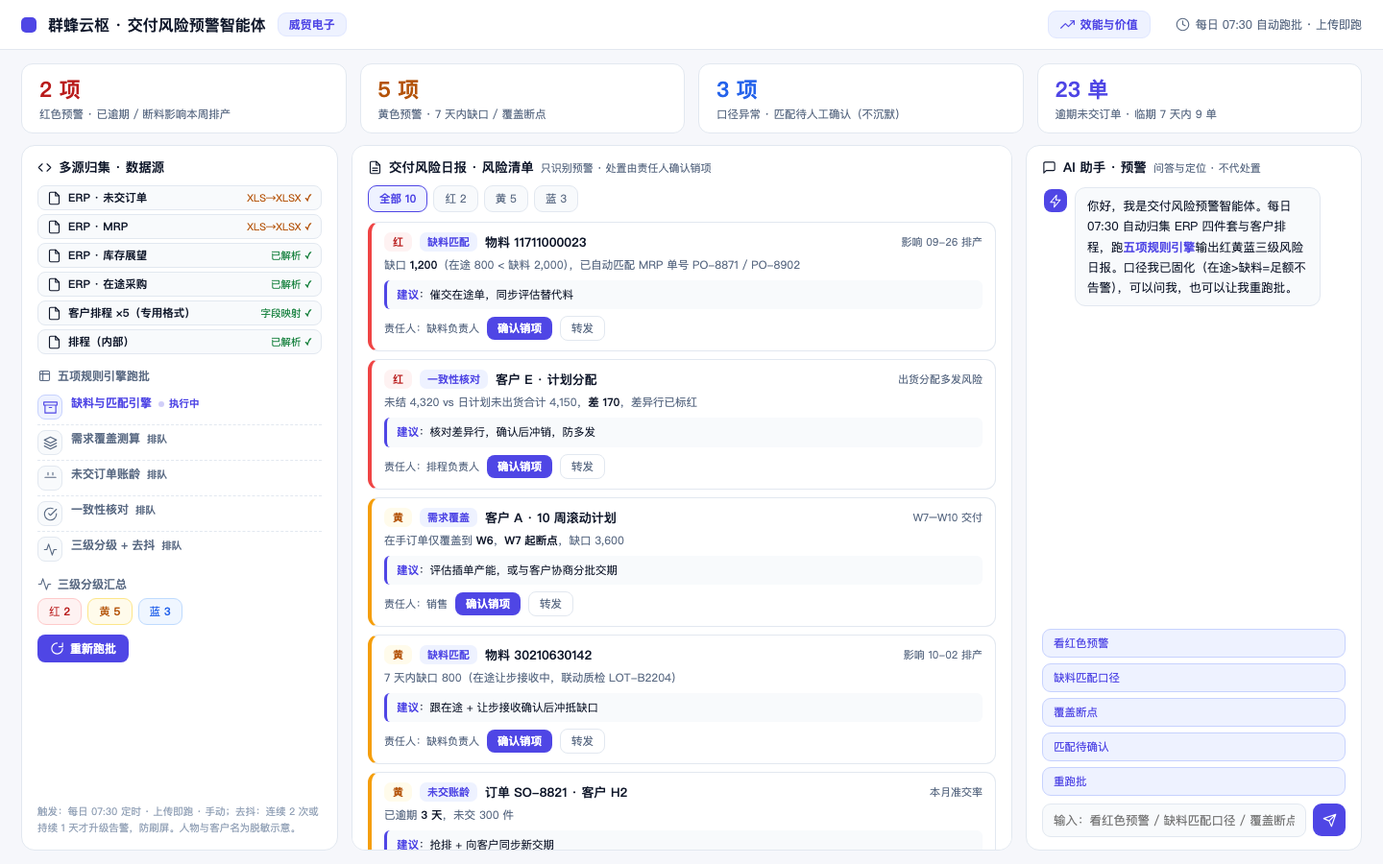
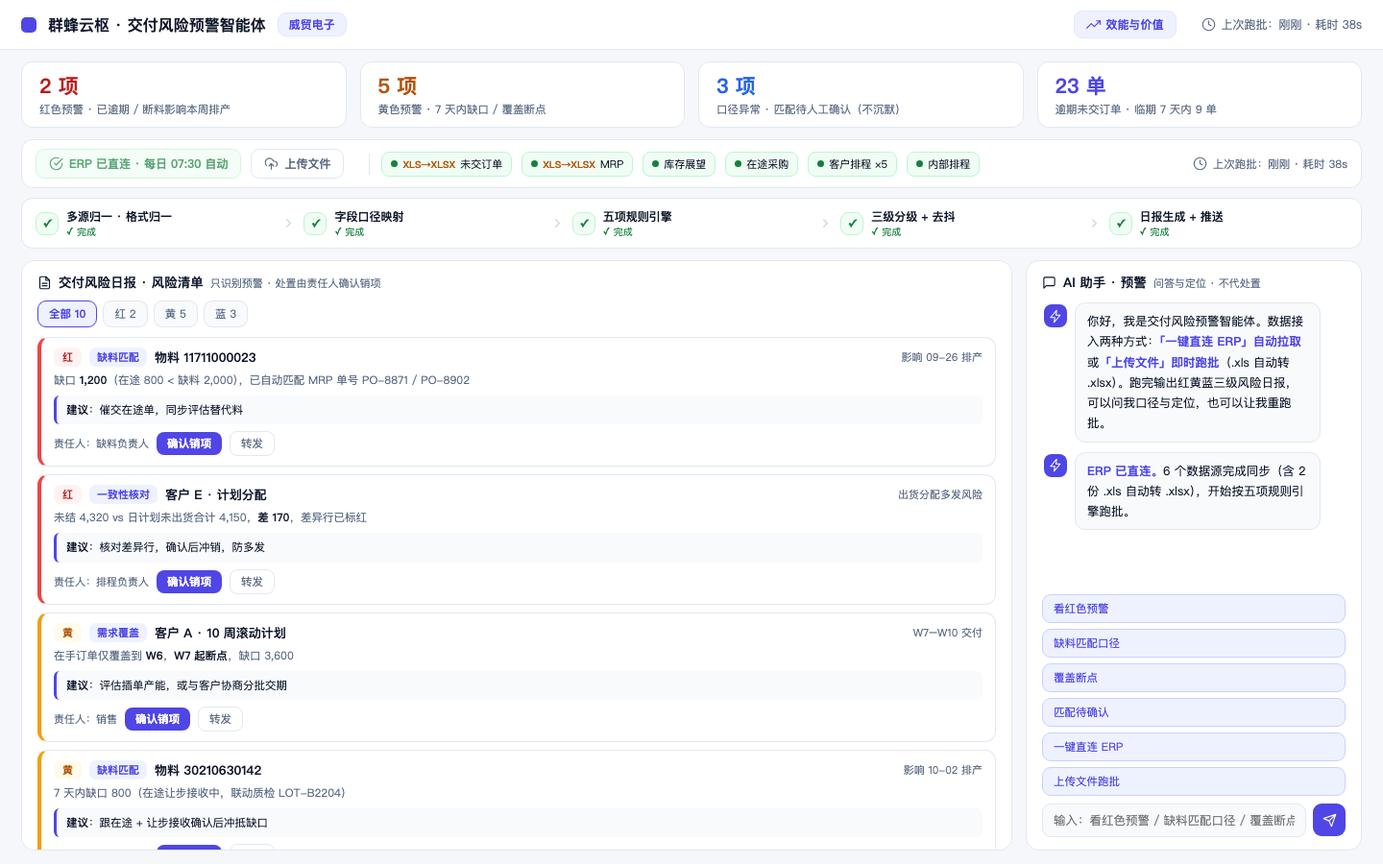
feat(demos): scenario-3 动线重构 — 接入带(一键直连ERP+文件上传+源状态)/横式流水线/清单升主视觉

diff --git a/demos/scenario-3-delivery.html b/demos/scenario-3-delivery.html
@@ -21,50 +21,48 @@ body{background:var(--bg);color:var(--tx);height:100vh;display:flex;flex-directi
 .vrow .base{color:var(--mut);font-size:11px}
 .vfoot{font-size:10px;color:#94A3B8;margin-top:7px;line-height:1.6}
 .rinfo{margin-left:14px;font-size:12px;color:var(--mut);display:flex;align-items:center;gap:6px;flex:none}
-.kpis{display:flex;gap:14px;padding:14px 22px 0}
-.kpi{flex:1;background:var(--pan);border:1px solid var(--bd);border-radius:12px;padding:11px 18px;cursor:pointer}
-.kpi b{font-size:22px;color:var(--ac)}
+.kpis{display:flex;gap:14px;padding:12px 22px 0}
+.kpi{flex:1;background:var(--pan);border:1px solid var(--bd);border-radius:12px;padding:10px 18px;cursor:pointer}
+.kpi b{font-size:21px;color:var(--ac)}
 .kpi b.rd{color:var(--bad)}.kpi b.ye{color:var(--warn)}.kpi b.bl{color:var(--blue)}
-.kpi span{display:block;font-size:11.5px;color:var(--mut);margin-top:3px}
+.kpi span{display:block;font-size:11.5px;color:var(--mut);margin-top:2px}
+/* 接入带 */
+.accessbar{display:flex;align-items:center;gap:10px;background:var(--pan);border:1px solid var(--bd);border-radius:12px;margin:12px 22px 0;padding:9px 14px;flex-wrap:wrap}
+.abtn{display:inline-flex;align-items:center;gap:6px;font-size:12px;border-radius:9px;padding:6px 13px;cursor:pointer;font-weight:700}
+.abtn.pri{background:var(--ac);color:#fff}
+.abtn.pri:hover{background:#4338CA}
+.abtn.ghost{border:1px solid var(--bd);color:var(--mut);background:var(--pan);font-weight:600}
+.abtn.ghost:hover{color:var(--ac);border-color:#C7D2FE}
+.abtn.on{background:var(--okbg);color:var(--ok);border:1px solid #BBF7D0}
+.adiv{width:1px;height:22px;background:var(--bd);margin:0 2px}
+.srcchip{display:inline-flex;align-items:center;gap:5px;font-size:11px;border:1px solid var(--bd);border-radius:8px;padding:4px 9px;color:var(--mut);background:var(--pan2)}
+.srcchip i{width:7px;height:7px;border-radius:4px;background:#CBD5E1;flex:none}
+.srcchip.ok{color:var(--tx);border-color:#BBF7D0;background:var(--okbg)}
+.srcchip.ok i{background:var(--ok)}
+.srcchip .cv{color:var(--warn);font-size:10px;font-weight:700}
+.abarlast{margin-left:auto;font-size:11.5px;color:var(--mut);display:flex;align-items:center;gap:6px}
+/* 流水线 */
+.pipe{display:flex;align-items:stretch;gap:0;background:var(--pan);border:1px solid var(--bd);border-radius:12px;margin:10px 22px 0;padding:10px 14px}
+.pstep{flex:1;display:flex;align-items:center;gap:8px;min-width:0}
+.pnum{width:24px;height:24px;border-radius:8px;background:var(--pan2);border:1px solid var(--bd);color:var(--mut);display:flex;align-items:center;justify-content:center;font-size:11.5px;font-weight:700;flex:none}
+.pstep.run .pnum{background:#EEF2FF;border-color:#C7D2FE;color:var(--ac)}
+.pstep.done .pnum{background:var(--okbg);border-color:#BBF7D0;color:var(--ok)}
+.pbody{min-width:0}
+.pname{font-size:12px;font-weight:600;color:var(--mut);white-space:nowrap}
+.pstep.run .pname{color:var(--ac)}
+.pstep.done .pname{color:var(--tx)}
+.pstat{font-size:10px;color:#94A3B8;white-space:nowrap}
+.pstep.run .pstat{color:var(--ac)}
+.pstep.done .pstat{color:var(--ok)}
+.parr{display:flex;align-items:center;padding:0 8px;color:#CBD5E1;flex:none}
+.dot{display:inline-block;width:6px;height:6px;border-radius:3px;background:var(--ac);margin-right:4px;animation:pu 1s infinite}
+@keyframes pu{50%{opacity:.25}}
+/* 主区 */
 .wrap{display:flex;flex:1;gap:14px;padding:12px 22px 14px;min-height:0;overflow:hidden}
 .panel{background:var(--pan);border:1px solid var(--bd);border-radius:14px;padding:13px 16px;overflow:auto;display:flex;flex-direction:column;min-height:0}
 .panel h3{font-size:13.5px;font-weight:700;display:flex;align-items:center;gap:7px;margin-bottom:9px}
 .panel h3 em{font-style:normal;font-size:11px;color:var(--mut);font-weight:400}
-.left{width:330px;flex:none}.mid{flex:1.3;min-width:0}.right{width:350px;flex:none}
-.sec{font-size:12px;color:var(--mut);font-weight:600;display:flex;align-items:center;gap:6px;margin:10px 0 6px}
-.src{display:flex;align-items:center;gap:7px;font-size:11.5px;background:var(--pan2);border:1px solid var(--bd);border-radius:8px;padding:4px 9px;margin-bottom:4px}
-.src b{font-weight:600;white-space:nowrap;overflow:hidden;text-overflow:ellipsis}
-.src .st{margin-left:auto;color:var(--ok);flex:none;font-size:10.5px}
-.src .st.conv{color:var(--warn)}
-.stage{display:flex;align-items:flex-start;gap:9px;padding:5px 0;border-bottom:1px dashed var(--bd)}
-.stage:last-child{border-bottom:none}
-.sic{width:26px;height:26px;border-radius:8px;background:var(--pan2);border:1px solid var(--bd);display:flex;align-items:center;justify-content:center;color:var(--mut);flex:none}
-.stage.run .sic{background:#EEF2FF;border-color:#C7D2FE;color:var(--ac)}
-.stage.done .sic{background:var(--okbg);border-color:#BBF7D0;color:var(--ok)}
-.sbody{flex:1;min-width:0}
-.sname{font-size:12px;font-weight:600;color:var(--mut)}
-.stage.run .sname{color:var(--ac)}
-.stage.done .sname{color:var(--tx)}
-.sstate{font-size:10.5px;margin-left:7px;font-weight:700}
-.stage.run .sstate{color:var(--ac)}
-.stage.done .sstate{color:var(--ok)}
-.ssum{font-size:10.5px;color:var(--mut);line-height:1.55;margin-top:2px;display:none}
-.stage.done .ssum{display:block}
-.dot{display:inline-block;width:6px;height:6px;border-radius:3px;background:var(--ac);margin-right:5px;animation:pu 1s infinite}
-@keyframes pu{50%{opacity:.25}}
-.rchips{display:flex;gap:6px;flex-wrap:wrap}
-.rchip{font-size:11.5px;border:1px solid var(--bd);border-radius:9px;padding:5px 11px;color:var(--mut);cursor:pointer;background:var(--pan2)}
-.rchip b{font-weight:700}
-.rchip.hi{border-color:#FECACA;background:var(--badbg);color:var(--bad)}
-.rchip.md{border-color:#FDE68A;background:var(--warnbg);color:var(--warn)}
-.rchip.lo{border-color:#BFDBFE;background:var(--infobg);color:var(--blue)}
-.btnrow{display:flex;gap:8px;flex-wrap:wrap}
-.btn{display:inline-flex;align-items:center;gap:6px;font-size:12px;border-radius:8px;padding:6px 13px;cursor:pointer}
-.btn.pri{background:var(--ac);color:#fff;font-weight:700}
-.btn.pri:hover{background:#4338CA}
-.btn.ghost{border:1px solid var(--bd);color:var(--mut);background:var(--pan)}
-.btn.ghost:hover{color:var(--ac);border-color:#C7D2FE}
-.btn.sm{font-size:11.5px;padding:4px 11px}
+.mid{flex:1.55;min-width:0}.right{width:350px;flex:none}
 .fbar{display:flex;gap:6px;flex-wrap:wrap;margin-bottom:10px}
 .fchip{font-size:11.5px;border:1px solid var(--bd);border-radius:9px;padding:5px 11px;color:var(--mut);cursor:pointer;background:var(--pan2)}
 .fchip.on{border-color:var(--ac);color:var(--ac);background:#EEF2FF;font-weight:700}
@@ -84,16 +82,20 @@ body{background:var(--bg);color:var(--tx);height:100vh;display:flex;flex-directi
 .rdesc{font-size:11.5px;color:var(--mut);line-height:1.65;margin-top:5px}
 .rdesc b{color:var(--tx)}
 .ract{margin-top:6px;font-size:11.5px;color:var(--tx);background:var(--pan2);border-left:3px solid var(--ac);border-radius:6px;padding:6px 10px;line-height:1.6}
-.ract b{color:var(--ac)}
 .rft{display:flex;align-items:center;gap:8px;margin-top:7px}
 .rft .own{font-size:11px;color:var(--mut)}
 .okmark{font-size:11.5px;color:var(--ok);font-weight:600}
+.btn{display:inline-flex;align-items:center;gap:6px;font-size:11.5px;border-radius:8px;padding:4px 11px;cursor:pointer}
+.btn.pri{background:var(--ac);color:#fff;font-weight:700}
+.btn.ghost{border:1px solid var(--bd);color:var(--mut);background:var(--pan)}
 .dstrip{margin-top:10px;display:flex;align-items:center;gap:8px;font-size:11.5px;color:var(--tx);background:var(--pan2);border:1px solid var(--bd);border-radius:10px;padding:8px 12px}
 .dstrip b{color:var(--ac)}
 .oneline{margin-top:10px;display:flex;align-items:flex-start;gap:8px;font-size:11.5px;line-height:1.7;color:var(--tx);background:#EEF2FF;border:1px solid #C7D2FE;border-radius:10px;padding:8px 12px}
 .oneline .ic{color:var(--ac);margin-top:2px}
 .oneline b{color:var(--ac)}
 .dfoot{font-size:10.5px;color:#94A3B8;line-height:1.6;margin-top:auto;padding-top:8px}
+.upfiles{display:flex;gap:6px;flex-wrap:wrap;margin-left:4px}
+.upfile{font-size:10.5px;color:var(--warn);background:var(--warnbg);border:1px solid #FDE68A;border-radius:7px;padding:2px 8px;font-weight:600}
 /* AI */
 .aiwrap{flex:1;display:flex;flex-direction:column;min-height:0}
 .msgs{flex:1;overflow:auto;padding:2px 2px 8px;min-height:0}
@@ -116,9 +118,7 @@ body{background:var(--bg);color:var(--tx);height:100vh;display:flex;flex-directi
 .inrow input{flex:1;border:1px solid var(--bd);border-radius:9px;padding:8px 11px;font-size:12.5px;outline:none;color:var(--tx);background:var(--pan2)}
 .inrow input:focus{border-color:var(--ac);background:#fff}
 .inrow .send{width:34px;height:34px;border-radius:9px;background:var(--ac);color:#fff;display:flex;align-items:center;justify-content:center;cursor:pointer;flex:none}
-.inrow .send:hover{background:#4338CA}
 .toast{position:fixed;right:24px;bottom:24px;background:var(--tx);color:#fff;font-size:13px;font-weight:600;border-radius:10px;padding:10px 18px;display:none;z-index:99;box-shadow:0 8px 24px rgba(15,23,42,.25)}
-svg text{font-family:inherit}
 </style></head><body>
 <div class="top"><div class="logo"></div><b>群蜂云枢 · 交付风险预警智能体</b><span class="toptag">威贸电子</span>
 <div class="valwrap"><span class="valbtn" onclick="toggleVal(event)"><svg class="ic" viewBox="0 0 24 24"><path d="M23 6l-9.5 9.5-5-5L1 18"/><path d="M17 6h6v6"/></svg>效能与价值</span>
@@ -129,7 +129,7 @@ svg text{font-family:inherit}
 <div class="vrow"><span>人工释放</span><span class="base"><b>约 60–80 人时/月</b>（推断）</span></div>
 <div class="vrow"><span>预警准确率</span><span class="base">无基线 → <b>≥90%</b>，误报 &lt;10%</span></div>
 <div class="vfoot">MVP 只做识别与预警，不做自动处置；未交订单逾期量上线 3 个月内目标下降 20%。</div></div></div>
-<div class="rinfo"><svg class="ic" viewBox="0 0 24 24"><circle cx="12" cy="12" r="10"/><path d="M12 6v6l4 2"/></svg>每日 07:30 自动跑批 · 上传即跑</div></div>
+<div class="rinfo"><svg class="ic" viewBox="0 0 24 24"><circle cx="12" cy="12" r="10"/><path d="M12 6v6l4 2"/></svg><span id="runInfo">上次跑批：今日 07:30 · 耗时 42s</span></div></div>
 
 <div class="kpis">
 <div class="kpi" onclick="setFilter('red')"><b class="rd">2 项</b><span>红色预警 · 已逾期 / 断料影响本周排产</span></div>
@@ -137,18 +137,19 @@ svg text{font-family:inherit}
 <div class="kpi" onclick="setFilter('blue')"><b class="bl">3 项</b><span>口径异常 · 匹配待人工确认（不沉默）</span></div>
 <div class="kpi"><b>23 单</b><span>逾期未交订单 · 临期 7 天内 9 单</span></div></div>
 
-<div class="wrap">
-<div class="panel left">
-<h3><svg class="ic" viewBox="0 0 24 24"><path d="M16 18l6-6-6-6M8 6l-6 6 6 6"/></svg>多源归集 · 数据源</h3>
-<div id="srcs"></div>
-<div class="sec"><svg class="ic" viewBox="0 0 24 24"><rect x="4" y="4" width="16" height="16" rx="2"/><path d="M9 4v16M4 9h16"/></svg>五项规则引擎跑批</div>
-<div id="stages"></div>
-<div class="sec"><svg class="ic" viewBox="0 0 24 24"><path d="M22 12h-4l-3 9L9 3l-3 9H2"/></svg>三级分级汇总</div>
-<div class="rchips"><span class="rchip hi" onclick="setFilter('red')">红 <b>2</b></span><span class="rchip md" onclick="setFilter('yellow')">黄 <b>5</b></span><span class="rchip lo" onclick="setFilter('blue')">蓝 <b>3</b></span></div>
-<div style="margin-top:10px" class="btnrow"><span class="btn pri" id="runBtn" onclick="runPipeline()"><svg class="ic" viewBox="0 0 24 24"><polygon points="6 3 20 12 6 21 6 3"/></svg>立即跑批</span></div>
-<div class="dfoot">触发：每日 07:30 定时 · 上传即跑 · 手动；去抖：连续 2 次或持续 1 天才升级告警，防刷屏。人物与客户名为脱敏示意。</div>
+<div class="accessbar">
+<span class="abtn pri" id="erpBtn" onclick="connectERP()"><svg class="ic" viewBox="0 0 24 24"><path d="M13 2L3 14h7l-1 8 10-12h-7l1-8z"/></svg>一键直连 ERP</span>
+<span class="abtn ghost" onclick="document.getElementById('upIn').click()"><svg class="ic" viewBox="0 0 24 24"><path d="M4 14.9A7 7 0 1 1 15.7 8h1.8a4.5 4.5 0 0 1 2.5 8.2M12 12v9"/><path d="M16 16l-4-4-4 4"/></svg>上传文件</span>
+<input type="file" id="upIn" multiple accept=".xls,.xlsx,.csv,.pdf,.zip" style="display:none" onchange="onUpload(this)">
+<span class="upfiles" id="upfiles"></span>
+<span class="adiv"></span>
+<span class="srcchip" data-s="0"><i></i>未交订单</span><span class="srcchip" data-s="1"><i></i>MRP</span><span class="srcchip" data-s="2"><i></i>库存展望</span><span class="srcchip" data-s="3"><i></i>在途采购</span><span class="srcchip" data-s="4"><i></i>客户排程 ×5</span><span class="srcchip" data-s="5"><i></i>内部排程</span>
+<span class="abarlast"><svg class="ic" viewBox="0 0 24 24"><circle cx="12" cy="12" r="10"/><path d="M12 6v6l4 2"/></svg><span id="lastRun">未直连 · 支持每日 07:30 自动跑批</span></span>
 </div>
 
+<div class="pipe" id="pipe"></div>
+
+<div class="wrap">
 <div class="panel mid">
 <h3><svg class="ic" viewBox="0 0 24 24"><path d="M14 2H6a2 2 0 0 0-2 2v16a2 2 0 0 0 2 2h12a2 2 0 0 0 2-2V8z"/><path d="M14 2v6h6M16 13H8M16 17H8"/></svg>交付风险日报 · 风险清单<em>只识别预警 · 处置由责任人确认销项</em></h3>
 <div class="fbar" id="fbar"></div>
@@ -167,13 +168,12 @@ svg text{font-family:inherit}
 <div class="toast" id="toast"></div>
 
 <script>
-const SRCS=[["ERP · 未交订单","XLS→XLSX ✓"],["ERP · MRP","XLS→XLSX ✓"],["ERP · 库存展望","已解析 ✓"],["ERP · 在途采购","已解析 ✓"],["客户排程 ×5（专用格式）","字段映射 ✓"],["排程（内部）","已解析 ✓"]];
-const STAGES=[
- ["缺料与匹配引擎","M21 8V21H3V8M1 3h22v5H1zM10 12h4","在途>缺料视为足额不告警 87 行；在途<缺料自动匹配 MRP 单号 14 项，匹配不上单列待确认 1 项（不沉默）"],
- ["需求覆盖测算","M12 2L2 7l10 5 10-5-10-5zM2 17l10 5 10-5M2 12l10 5 10-5","客户滚动计划 vs 在手订单逐周比对：覆盖断点 2 处（W7 / W9）"],
- ["未交订单账龄","M8 2v4M16 2v4M3 10h18","按应交期分月统计未交量：已逾期 23 单，临期 7 天内 9 单自动升级"],
- ["一致性核对","M22 11.1V12a10 10 0 1 1-5.9-9.1M22 4L12 14l-3-3","客户计划未结 vs 内部排程未出货合计自动对平，差异行标红 1 行（差 170）"],
- ["三级分级 + 去抖","M22 12h-4l-3 9L9 3l-3 9H2","红 2 / 黄 5 / 蓝 3；连续 2 次或持续 1 天才升级，正常静默"]];
+const PIPES=[
+ ["多源归一 · 格式归一","ERP 四件套 + 客户排程 ×5 + 内部排程 · .xls 无损转 .xlsx"],
+ ["字段口径映射","ERP 编码 / 客户料号 / 应交期 / 在途量"],
+ ["五项规则引擎","缺料匹配 · 需求覆盖 · 未交账龄 · 一致性核对 · 口径校验"],
+ ["三级分级 + 去抖","红 2 / 黄 5 / 蓝 3 · 连续 2 次或持续 1 天才升级"],
+ ["日报生成 + 推送","缺料负责人 / 排程负责人 / 销售 · 正常静默"]];
 const RISKS=[
  {lv:"red",cat:"缺料匹配",obj:"物料 11711000023",desc:"缺口 <b>1,200</b>（在途 800 < 缺料 2,000），已自动匹配 MRP 单号 PO-8871 / PO-8902",imp:"影响 09-26 排产",act:"<b>建议</b>：催交在途单，同步评估替代料",own:"缺料负责人"},
  {lv:"red",cat:"一致性核对",obj:"客户 E · 计划分配",desc:"未结 4,320 vs 日计划未出货合计 4,150，<b>差 170</b>，差异行已标红",imp:"出货分配多发风险",act:"<b>建议</b>：核对差异行，确认后冲销，防多发",own:"排程负责人"},
@@ -186,21 +186,37 @@ const RISKS=[
  {lv:"blue",cat:"匹配待确认",obj:"物料 40110810237",desc:"MRP 有在途单，但与缺料行<b>映射失败</b>——单列待确认，不沉默",imp:"可能掩盖真实缺口",act:"<b>建议</b>：人工确认料号映射后回写规则",own:"缺料负责人"},
  {lv:"blue",cat:"口径校验",obj:"缺料表负数行",desc:"到货 &gt; 缺料 = 已足额（口径固化），自动识别 <b>87 行</b>不告警",imp:"—",act:"无需处理",own:"—"}];
 const FILTERS=[["all","全部 10"],["red","红 2"],["yellow","黄 5"],["blue","蓝 3"]];
-let filter="all";
+let filter="all",ran=false;
 
-function renderSrcs(){document.getElementById("srcs").innerHTML=SRCS.map(s=>`<div class="src"><svg class="ic" viewBox="0 0 24 24"><path d="M14 2H6a2 2 0 0 0-2 2v16a2 2 0 0 0 2 2h12a2 2 0 0 0 2-2V8z"/><path d="M14 2v6h6"/></svg><b>${s[0]}</b><span class="st ${s[1].includes("XLS")?"conv":""}">${s[1]}</span></div>`).join("")}
-function renderStages(st){const box=document.getElementById("stages");box.innerHTML="";
- STAGES.forEach((s,i)=>{const cls=st>i?"done":st===i?"run":"";
-  box.innerHTML+=`<div class="stage ${cls}"><div class="sic"><svg class="ic" viewBox="0 0 24 24">${st>i?'<path d="M22 11.1V12a10 10 0 1 1-5.9-9.1M22 4L12 14l-3-3"/>':`<path d="${s[1]}"/>`}</svg></div>
-  <div class="sbody"><div class="sname">${s[0]}<span class="sstate">${st>i?"✓":st===i?'<span class="dot"></span>执行中':"排队"}</span></div><div class="ssum">${s[2]}</div></div></div>`})}
-function runPipeline(){if(ran){document.querySelectorAll(".rrow.done").forEach(r=>r.classList.remove("done"));
- RISKS.forEach(r=>r.done=false);renderStages(0);ran=false;setTimeout(runPipeline,80);return}
- ran=true;document.getElementById("runBtn").innerHTML='<svg class="ic" viewBox="0 0 24 24"><path d="M21 12a9 9 0 1 1-9-9"/><path d="M21 3v6h-6"/></svg>重新跑批';
- let st=0;renderStages(0);
- const step=()=>{if(st>STAGES.length){renderStages(STAGES.length);renderList();toast("跑批完成 · 日报已生成并按级推送");return}
-  renderStages(st);st++;setTimeout(step,st===STAGES.length+1?500:900)};step()}
-let ran=false;
-
+function renderPipe(st){document.getElementById("pipe").innerHTML=PIPES.map((p,i)=>{
+  const cls=st>i?"done":st===i?"run":"";
+  const stat=st>i?"✓ 完成":st===i?'<span class="dot"></span>执行中':"排队";
+  return `<div class="pstep ${cls}" title="${p[1]}"><div class="pnum">${st>i?"✓":i+1}</div><div class="pbody"><div class="pname">${p[0]}</div><div class="pstat">${stat}</div></div></div>${i<PIPES.length-1?'<div class="parr"><svg class="ic" viewBox="0 0 24 24"><path d="M9 18l6-6-6-6"/></svg></div>':""}`}).join("")}
+function runPipeline(){if(ran){RISKS.forEach(r=>r.done=false);renderPipe(0);ran=false;setTimeout(runPipeline,80);return}
+ ran=true;
+ let st=0;renderPipe(0);
+ const step=()=>{if(st>PIPES.length){renderPipe(PIPES.length);renderList();
+  document.getElementById("lastRun").textContent="上次跑批：刚刚 · 耗时 38s";
+  document.getElementById("runInfo").textContent="上次跑批：刚刚 · 耗时 38s";
+  toast("跑批完成 · 日报已生成并按级推送");return}
+  renderPipe(st);st++;setTimeout(step,st===PIPES.length+1?400:850)};step()}
+function connectERP(){const btn=document.getElementById("erpBtn");
+ if(btn.classList.contains("on")){toast("ERP 直连正常 · 上次同步 今日 07:30（模拟）");return}
+ btn.innerHTML='<svg class="ic" viewBox="0 0 24 24"><path d="M21 12a9 9 0 1 1-9-9"/><path d="M21 3v6h-6"/></svg>连接中…';
+ btn.style.opacity=".7";
+ setTimeout(()=>{btn.className="abtn on";btn.innerHTML='<svg class="ic" viewBox="0 0 24 24"><path d="M22 11.1V12a10 10 0 1 1-5.9-9.1M22 4L12 14l-3-3"/></svg>ERP 已直连 · 每日 07:30 自动';
+  document.querySelectorAll(".srcchip").forEach(c=>{c.classList.add("ok");
+   if(c.dataset.s==="0"||c.dataset.s==="1")c.innerHTML=c.innerHTML.replace("</i>","</i><span class='cv'>XLS→XLSX</span>")||c.innerHTML});
+  document.getElementById("lastRun").textContent="已直连 · 6 个数据源已同步";
+  toast("ERP 直连成功 · 6 个数据源已同步，开始跑批");
+  aiSay("<b>ERP 已直连。</b>6 个数据源完成同步（含 2 份 .xls 自动转 .xlsx），开始按五项规则引擎跑批。");runPipeline()},1100)}
+function onUpload(inp){const fs=[...inp.files];const box=document.getElementById("upfiles");
+ fs.forEach(f=>{const d=document.createElement("span");d.className="upfile";
+  const isXls=/\.xls$/i.test(f.name);
+  d.textContent=f.name+(isXls?" .xls→.xlsx":" ✓");box.appendChild(d)});
+ if(fs.length){toast("已接收 "+fs.length+" 个文件 · 开始即时跑批");
+  aiSay("已接收上传文件 "+fs.length+" 个"+(fs.some(f=>/\.xls$/i.test(f.name))?"（含 .xls 已自动转 .xlsx）":"")+"，按五项规则引擎即时跑批。");runPipeline()}
+ inp.value=""}
 function setFilter(f){filter=f;renderList()}
 function renderList(){document.getElementById("fbar").innerHTML=FILTERS.map(f=>`<span class="fchip ${filter===f[0]?"on":""}" onclick="setFilter('${f[0]}')">${f[1]}</span>`).join("");
  const list=RISKS.filter(r=>filter==="all"||r.lv===filter);
@@ -208,10 +224,10 @@ function renderList(){document.getElementById("fbar").innerHTML=FILTERS.map(f=>`
  list.forEach(r=>{const d=document.createElement("div");d.className="rrow "+r.lv+(r.done?" done":"");
   d.innerHTML=`<div class="rh"><span class="lvb ${r.lv}">${r.lv==="red"?"红":r.lv==="yellow"?"黄":"蓝"}</span><span class="cat">${r.cat}</span><span class="obj">${r.obj}</span><span class="imp">${r.imp}</span></div>
   <div class="rdesc">${r.desc}</div><div class="ract">${r.act}</div>
-  <div class="rft"><span class="own">责任人：${r.own}</span>${r.own==="—"?"":r.done?'<span class="okmark">✓ 已销项 · 次日跑批自动复核</span>':`<span class="btn pri sm" onclick="closeRisk(this,'${r.obj}')">确认销项</span><span class="btn ghost sm" onclick="toast('已转发责任人处理（模拟推送）')">转发</span>`}</div>`;
+  <div class="rft"><span class="own">责任人：${r.own}</span>${r.own==="—"?"":r.done?'<span class="okmark">✓ 已销项 · 次日跑批自动复核</span>':`<span class="btn pri" onclick="closeRisk(this,'${r.obj}')">确认销项</span><span class="btn ghost" onclick="toast('已转发责任人处理（模拟推送）')">转发</span>`}</div>`;
   box.appendChild(d)})}
-function closeRisk(btn,obj){const r=RISKS.find(x=>x.obj===obj);if(r){r.done=true}
- const row=btn.closest(".rrow");row.classList.add("done");
+function closeRisk(btn,obj){const r=RISKS.find(x=>x.obj===obj);if(r)r.done=true;
+ btn.closest(".rrow").classList.add("done");
  btn.outerHTML='<span class="okmark">✓ 已销项 · 次日跑批自动复核</span>';
  toast("已销项 · 明日跑批自动复核，未销项持续升级")}
 
@@ -227,22 +243,24 @@ function aiSend(){const inp=document.getElementById("aiIn");const t=inp.value.tr
  box.appendChild(ty);box.scrollTop=box.scrollHeight;
  setTimeout(()=>{ty.remove();route(t)},650)}
 function route(t){
+ if(/直连|连接|ERP/.test(t)){connectERP();aiSay("已在页顶一键直连 ERP：同步未交订单 / MRP / 库存展望 / 在途采购 + 客户排程 ×5 + 内部排程，直连后每日 07:30 自动跑批。");return}
+ if(/上传|文件/.test(t)){aiSay("两种方式都可以：顶栏「<b>上传文件</b>」选 ERP 导出或客户排程（.xls 自动转 .xlsx），选完即时跑批；或「<b>一键直连 ERP</b>」自动拉取，无需手工导出。");return}
  if(/红色|红级|^红$/.test(t)){setFilter("red");
-  aiSay("红色预警 <b>2 项</b>：①物料 11711000023 缺口 1,200（在途不足，已匹配 MRP 单），影响 09-26 排产；②客户 E 计划分配差异 170，有出货多发风险。已即时推送缺料负责人与排程负责人。","已筛红色");return}
+  aiSay("红色预警 <b>2 项</b>：①物料 11711000023 缺口 1,200（在途不足，已匹配 MRP 单），影响 09-26 排产；②客户 E 计划分配差异 170，有出货多发风险。已即时推送缺料负责人与排程负责人。","");return}
  if(/黄色|黄级/.test(t)){setFilter("yellow");
-  aiSay("黄色预警 <b>5 项</b>：客户 A 覆盖断点（W7 起）、镀层端子 7 天内缺口 800、逾期单 SO-8821、临期 9 单汇总、客户 C 覆盖断点。7 天内缺口按规则自动升级。","已筛黄色");return}
+  aiSay("黄色预警 <b>5 项</b>：客户 A 覆盖断点（W7 起）、镀层端子 7 天内缺口 800、逾期单 SO-8821、临期 9 单汇总、客户 C 覆盖断点。7 天内缺口按规则自动升级。","");return}
  if(/蓝色|口径|匹配|待确认/.test(t)){setFilter("blue");
-  aiSay("蓝色 <b>3 项</b>均为口径类：两处口径自动校验通过（足额不告警 87 行 / 负数含义），1 项 MRP 映射失败已单列<b>待人工确认</b>——规则是「匹配不上不沉默」，确认后回写规则库。","已筛蓝色");return}
+  aiSay("蓝色 <b>3 项</b>均为口径类：两处口径自动校验通过（足额不告警 87 行 / 负数含义），1 项 MRP 映射失败已单列<b>待人工确认</b>——规则是「匹配不上不沉默」，确认后回写规则库。","");return}
  if(/口径|规则|在途|负数/.test(t)){aiSay("已固化口径：<b>在途 &gt; 缺料 = 足额不告警</b>；在途 &lt; 缺料自动匹配 MRP 单号（多行 / 分隔）；到货 &gt; 缺料 = 已足额（负数行自动识别）。匹配不上单列待确认。原口径仅在个别同事脑中，现已沉淀为引擎规则。");return}
- if(/覆盖|断点|滚动计划|周/.test(t)){setFilter("yellow");
+ if(/覆盖|断点|滚动计划/.test(t)){setFilter("yellow");
   aiSay("需求覆盖测算：客户 A 10 周滚动计划，在手订单覆盖到 <b>W6，W7 起断点 3,600</b>；客户 C W9 断点 1,200。已推送销售评估插单或协商分批。");return}
  if(/账龄|逾期|未交/.test(t)){aiSay("未交订单按应交期分月统计：<b>已逾期 23 单</b>、临期 7 天内 9 单（合计 2,150 件）已升级黄色。上线 3 个月目标：逾期量环比下降 20%。");return}
- if(/一致|对平|差异|排程/.test(t)){aiSay("一致性核对：客户 E 计划未结 4,320 vs 内部日计划未出货合计 4,150，<b>差异 170 已标红定位</b>。此类两套数对不平以前靠人工逐行找，现在差异行直出。");return}
- if(/重跑|跑批|立即/.test(t)){aiSay("收到，立即重跑：多源归一 → 口径映射 → 五项规则引擎 → 三级分级 + 去抖。","已开始");runPipeline();return}
+ if(/一致|对平|差异/.test(t)){aiSay("一致性核对：客户 E 计划未结 4,320 vs 内部日计划未出货合计 4,150，<b>差异 170 已标红定位</b>。此类两套数对不平以前靠人工逐行找，现在差异行直出。");return}
+ if(/重跑|跑批|流水线/.test(t)){aiSay("收到，立即重跑：多源归一 → 口径映射 → 五项规则引擎 → 三级分级 + 去抖 → 日报推送。","已开始");runPipeline();return}
  if(/日报|推送|周报/.test(t)){aiSay("输出三件：<b>①交付风险日报</b>（物料/订单/客户/缺口量/影响交期/等级/建议动作）②红黄级即时推送责任人，正常静默 ③<b>周报</b>沉淀缺料趋势与逾期消化进度。");return}
  if(/处置|执行|自动/.test(t)){aiSay("MVP <b>只做识别与预警，不做自动处置</b>：预警由责任人在清单点「确认销项」，次日跑批自动复核，未销项持续升级。自动处置属后续规划。");return}
- aiSay("已收到。可问我：<b>「看红色预警」「缺料匹配口径」「覆盖断点」「账龄」「一致性差异」「重跑批」</b>；本智能体只做识别预警，处置走责任人销项闭环。")}
-const QCHIPS=["看红色预警","缺料匹配口径","覆盖断点","匹配待确认","重跑批"];
+ aiSay("已收到。可问我：<b>「看红色预警」「缺料匹配口径」「覆盖断点」「账龄」「一致性差异」「重跑批」</b>；数据接入支持「一键直连 ERP」或「上传文件」，两种都会即时跑批。")}
+const QCHIPS=["看红色预警","缺料匹配口径","覆盖断点","匹配待确认","一键直连 ERP","上传文件跑批"];
 document.getElementById("qchips").innerHTML=QCHIPS.map(q=>`<span class="qchip" onclick="document.getElementById('aiIn').value='${q}';aiSend()">${q}</span>`).join("");
 function toggleVal(e){e.stopPropagation();const p=document.getElementById("vpop");
  p.style.display=p.style.display==="block"?"none":"block"}
@@ -250,8 +268,7 @@ document.addEventListener("click",e=>{const p=document.getElementById("vpop");
  if(p&&p.style.display==="block"&&!p.contains(e.target)&&!e.target.closest(".valbtn"))p.style.display="none"});
 function toast(t){const el=document.getElementById("toast");el.textContent=t;el.style.display="block";
  clearTimeout(toast._t);toast._t=setTimeout(()=>el.style.display="none",2400)}
-renderSrcs();renderStages(0);renderList();
-pushMsg("ai","你好，我是交付风险预警智能体。每日 07:30 自动归集 ERP 四件套与客户排程，跑<b>五项规则引擎</b>输出红黄蓝三级风险日报。口径我已固化（在途&gt;缺料=足额不告警），可以问我，也可以让我重跑批。");
-window.addEventListener("resize",()=>{});
-setTimeout(()=>{runPipeline()},600);
+renderPipe(0);renderList();
+pushMsg("ai","你好，我是交付风险预警智能体。数据接入两种方式：<b>「一键直连 ERP」自动拉取</b>或<b>「上传文件」即时跑批</b>（.xls 自动转 .xlsx）。跑完输出红黄蓝三级风险日报，可以问我口径与定位，也可以让我重跑批。");
+setTimeout(()=>{connectERP()},800);
 </script></body></html>
